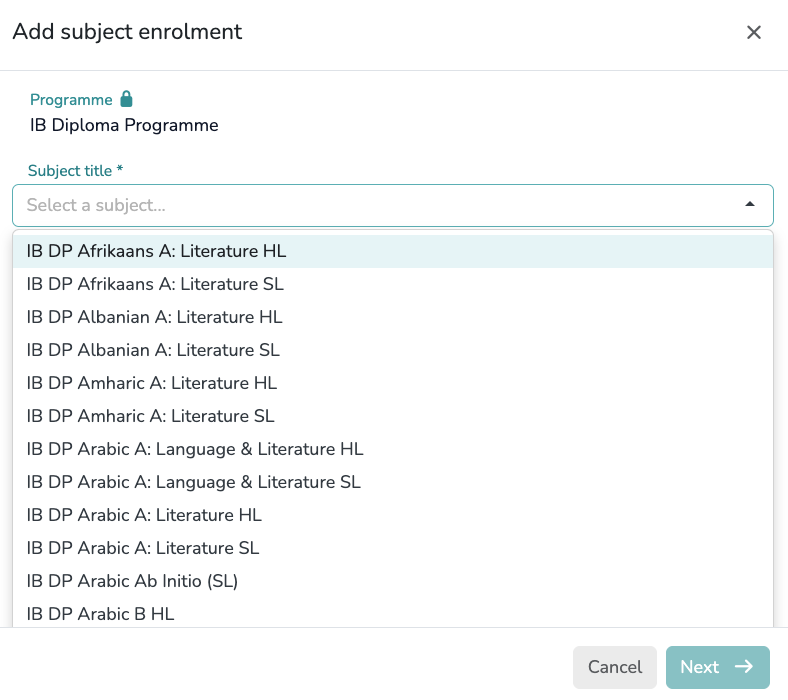
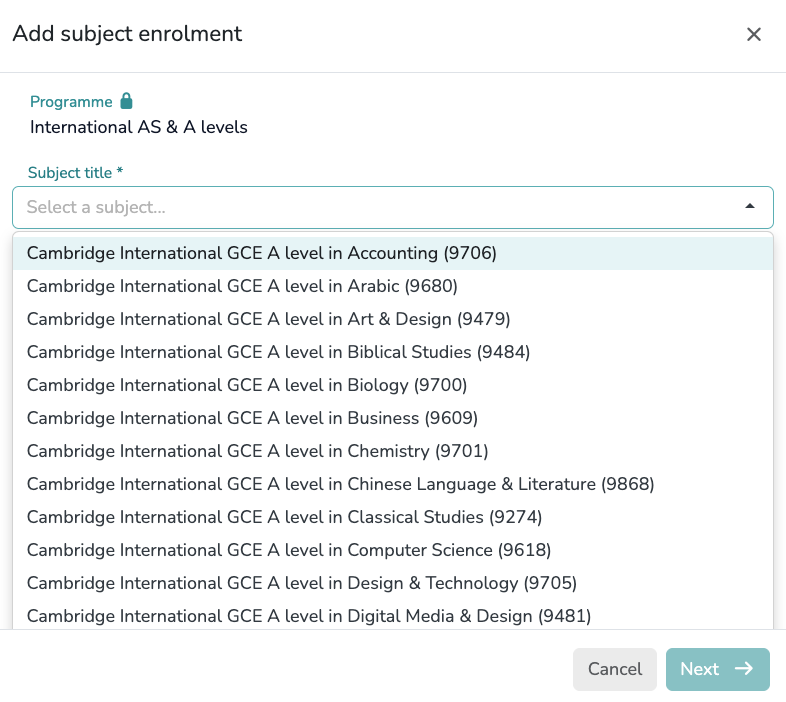
setup

diff --git a/docs/data-manager/student-setup-v2.md b/docs/data-manager/student-setup-v2.md
@@ -3,12 +3,15 @@
 
 ## The Student Profile
 
-To register a new student, click the `Add student` button. Then provide the student's First Name and Last Name—these are required fields. Once saved, you will be redirected to the student's profile.
+To register a new student, click the `Add student` button. Then provide the student's First Name and Last Name—these are the only required fields. Once saved, you will be redirected to the student's profile.
 
 
 The student profile consists of **five** sections: **Personal Data**, **Guardians**, **Permanent Group Tags**, **Academic Years** and **Academic Enrolments**. Each section contains specific fields that you need to complete to set up a student's record in Gradewing.
 
 ### 1. Personal Data
+
+
+![Personal Data Card](../assets/images/student_setup/personal_card.png)
 
 This section allows you to review or update the student's information as needed.
 The 'Gender' field is optional, but providing it allows you to compare grades by gender.
@@ -16,16 +19,25 @@ The 'Gender' field is optional, but providing it allows you to compare grades by
 
 ### 2. Guardians (Optional but Recommended)
 
+
+![Guardians Card](../assets/images/student_setup/guardians_card.png)
+
 You should assign at least one guardian to each student to enable secure report sharing. By adding guardians, you enable Gradewing to send reports directly to the appropriate contacts on your behalf. You can add multiple guardians if needed.
 
 
 ### 3. Permanent Group Tags (Optional)
+
+
+![Tags Card](../assets/images/student_setup/tags_card.png)
 
 You can assign any number of **permanent group tags** to the student, which will apply across **all** their academic years. 
 See the [Group Tags](#group-tags) section to learn more.
 
 
 ### 4. Academic Years
+
+
+![Year Enrolments Card](../assets/images/student_setup/year_enrolments_card.png)
 
 The enrolment process requires you to enrol each student in an **Academic Year** and **Year Group**. This step allows you to assign subjects to the chosen academic year. 
 
@@ -36,6 +48,9 @@ You should mark the appropriate **Learner Statuses** (SEN, EAL, G&T...) for the 
 
 
 ### 5. Academic Enrolments
+
+
+![Academic Enrolment Card](../assets/images/student_setup/academic_enrolment_card.png)
 
 You can assign each student to one (and more) programmes. 
 A programme is simply a group of subjects from the same educational system and level that a student takes in one or more academic years. 
@@ -74,6 +89,10 @@ A programme itself is not tied to a specific academic year, but you can only ass
 
 
 #### Subject Enrolment: Standard vs Exam Only
+
+![Enrolment Type](../assets/images/student_setup/enrolment_type.png)
+
+
 There are two ways to enrol a student in a subject:
 
 * **Standard Enrolment**: For students following the regular internal course. 
@@ -93,23 +112,35 @@ Registering KS4 exam results grants GEM the ability to generate accurate **Expec
 
 
 
-## Group Tags
-
-
-
-
 ## Learner Statuses
 
-Learner statuses (also called "flags") help you identify students with specific educational profiles or support needs. When enrolling a student in an Academic Year, you can assign one or more of the following statuses:
+![Flags Card](../assets/images/student_setup/learner_statuses.png)
 
-* **SEN (Special Educational Needs)**: For students requiring special educational provision.
-* **EAL (English as an Additional Language)**: For students whose first language is not English.
-* **LA (Low Attainer)**: For students struggling to meet expected academic standards.
-* **G&T (Gifted & Talented)**: For students demonstrating high ability in academic, creative, or practical areas.
-* **MP (Mobile Pupil)**: For students who joined outside the standard admission cycle.
-* **OAGC (Out of Age Group Cohort)**: For students not in the expected year group for their age.
+Learner statuses (also called "Learner flags") helps you and other users identify and support students with **specific educational needs**. When enrolling a student in an Academic Year, you can assign one or more of the following statuses:
 
-Assigning these statuses ensures teachers and data managers can provide targeted support and track student needs effectively.
+* **SEN**  (Special Educational Needs) [Includes DfE SEN provision and type]
+* **EAL** (English as an Additional Language) [Includes proficiency level]
+* **LA** (Low Attainer)
+* **G&T** (Gifted & Talented)
+* **MP** (Mobile Pupil)
+* **OAGC** (Out of Age Group Cohort)
+
+
+
+## Group Tags
+
+Group tags are custom labels that you can assign to students to group them based on any characteristic you choose. For example, "SEN", "EAL" or "HA" (High Attainer) are common group tags. Gender tags ("M", "F") are automatically created if the student's gender is provided. 
+Group tags are especially useful for comparing academic performance across different student groups in **Group Performance Analysis**, providing valuable insights based on demographics and other characteristics.
+
+A student can have multiple group tags assigned. There are **permanent** group tags that apply across all academic years, and **annual** group tags that are specific to a particular academic year. You can assign both types of tags in the student's profile. Assigning a permanent group tag overrides any annual group tag of the same name. 
+
+
+![Group Tags](../assets/images/student_setup/group_tags.png)
+
+!!! info "Group tags vs Learner statuses"
+    Group tags and learner statuses help identify and support students with specific needs. 
+    However, only group tags are used in group analysis. Tags shared by only a handful of students may not provide meaningful comparisons.
+
 
 
 ## Subject Enrolment Guide
@@ -165,4 +196,68 @@ We recommend two-year enrolment for IB DP subjects and core components (TOK, CAS
 
 ---
 
-### IGCSE
+### IGCSE / GCSE / O levels (Upper Secondary)
+We recommend enroling students in (I)GCSE or O-level subjects for the entire duration of their KS4 (Y10 and Y11).
+
+**Non-examinable** subjects (e.g. PE) should be offered as as a **Custom KS4 Subject**, see the [Custom Subjects Guide](data-manager/custom-subjects.md) for guidance. We recommend your custom KS4 subjects use the **same** Grading Scale as the main (I)GCSE / O-level subjects (i.e., 9–1, A*–G or A*–E) to ensure consistency in reporting and analysis.
+
+
+
+### MYP 4–5 (Upper Secondary)
+We recommend enrolling students in MYP 4+5 subjects for MYP Years 4 and 5 (Y10 and Y11).
+MYP 4+5 subjects not found in out subject qualificaiton library should be offered as **Custom MYP 4+5 Subject**. See the [Custom Subjects Guide](data-manager/custom-subjects.md) for guidance.
+We recommend your Custom MYP 4+5 Subject use the 7-1 MYP grading scale.
+
+
+
+
+
+### KS3 (Lower Secondary)
+We recommend enrolling students in **KS3 Custom Subjects** for the entire duration of their KS3 (Y7, Y8 and Y9). See the [Custom Subjects Guide](data-manager/custom-subjects.md) for guidance.
+We recommend your KS3 Custom Subjects
+
+- use the same grading scale 
+- are offered as a recurring subject across KS3 (Y7, Y8 and Y9)
+
+
+### MYP 1–3 (Lower Secondary)
+We recommend enrolling students in **MYP 1–3 Custom Subjects** for the entire duration of their MYP 1–3 (Y7, Y8 and Y9). See the [Custom Subjects Guide](data-manager/custom-subjects.md) for guidance.
+We recommend your MYP 1–3 Custom Subjects
+
+- use the same grading scale 
+- are offered as a recurring subject across MYP 1–3 (Grades 6–9)
+
+
+
+### International Lower Secondary Programme (Lower Secondary)
+Gradewing's subject qualificaiton library includes a selection of *examinable* subjects, namely:
+
+- Cambridge Lower Secondary Checkpoint subjects and 
+- Pearson Edexcel iLowerSecondary subjects 
+
+On top of these, you can create **Custom International Lower Secondary Subjects** under the following international curriculums:
+
+- Cambridge Lower Secondary
+- Oxford International Lower Secondary
+- Pearson Edexcel iLowerSecondary
+
+If following the **Cambridge Lower Secondary** curriculum, we recommend enroling students in:
+
+- *Custom* Cambridge Lower Secondary subjects for Y7, Y8 and Y9, and 
+- *Checkpoint subjects* as **Exam Only** in Y9 if needed.
+
+If following the **Pearson Edexcel iLowerSecondary** curriculum, we recommend enroling students in:
+
+- *Library* iLowerSecondary subjects for Y7, Y8 and Y9, or
+- *Custom* iLowerSecondary subjects for subjects not found in the library.
+
+
+
+!!! tip "Keep your subjects DRY (Don't Repeat Yourself)"
+    Do not create copies of the same subject for each year of Lower Secondary (KS3). Instead, create a *single* subject and enrol students in it for all three Lower Secondary years. The only reason to create separate copies of subjects for each year of KS3 is if you want to use *different* grading scales for each year, which is not common practice.
+
+
+
+### Subjects without internal assessment
+
+Subjects **without internal assessment** should be enroled as **Pastoral groups**, see the [Pastoral Groups Guide](data-manager/pastoral-groups.md).

diff --git a/docs/data-manager/custom-subjects.md b/docs/data-manager/custom-subjects.md
@@ -1,0 +1,5 @@
+# The Custom Subjects Guide
+
+
+!!! tip "Keep your custom subjects DRY (Don't Repeat Yourself)"
+    Do not create copies of the same subject for each year of e.g. Lower Secondary (KS3). Instead, create a *single* subject and enrol students in it for all three Lower Secondary years. The only reason to create separate copies of subjects for each year is if you want to use *different* grading scales across the years, which is not common practice.
